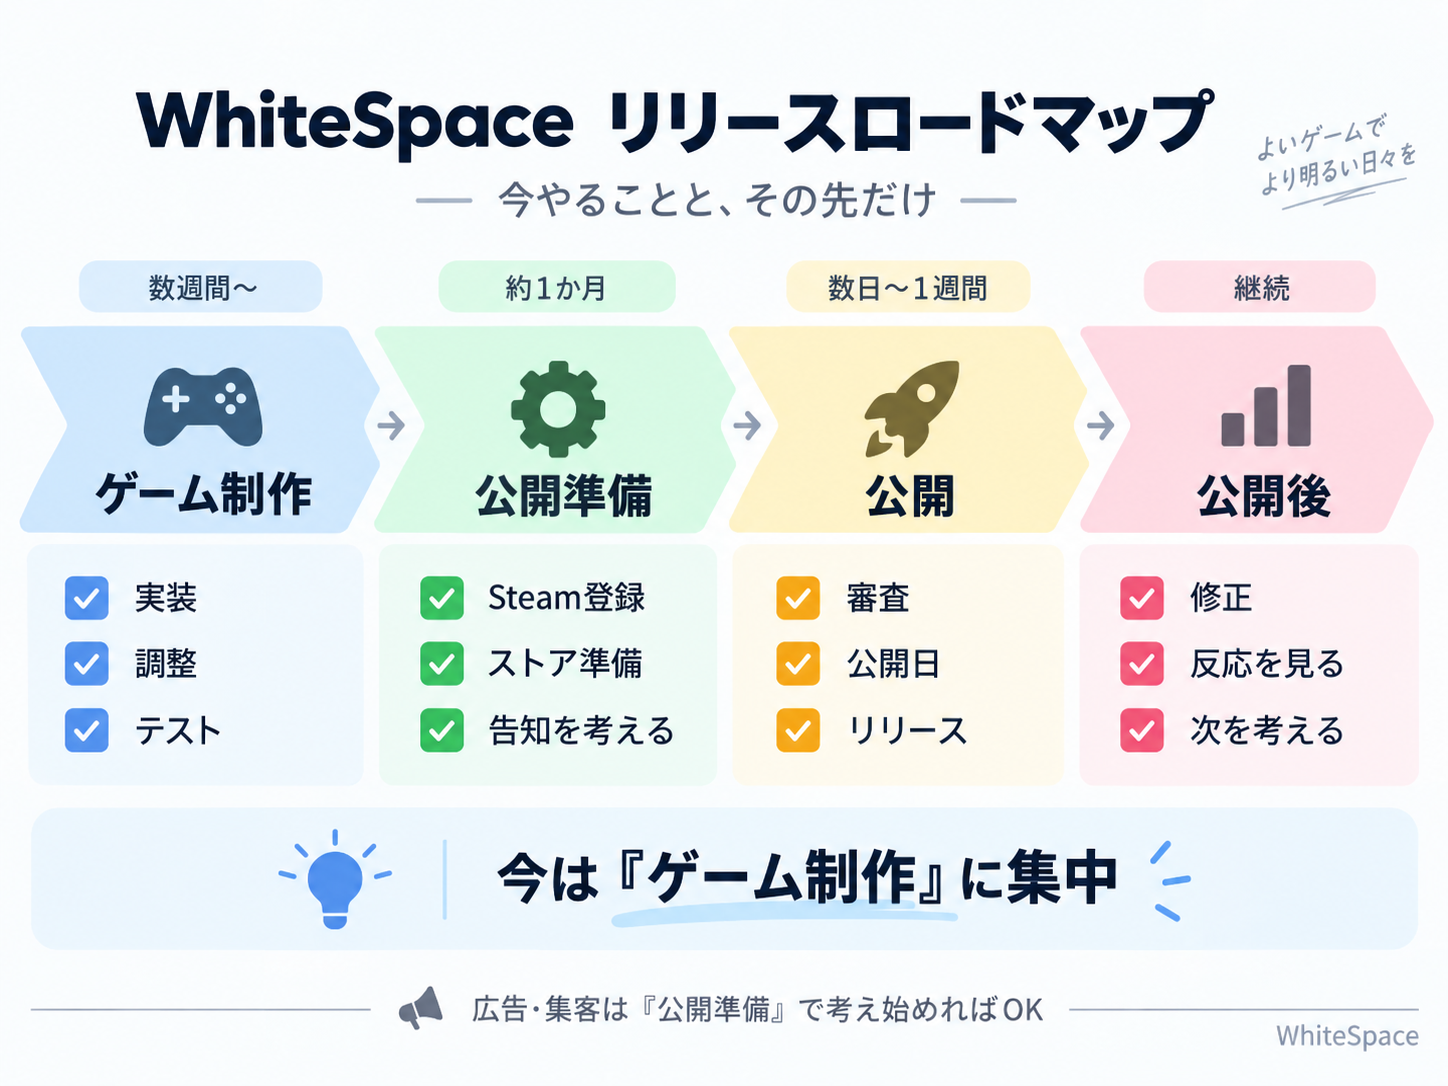
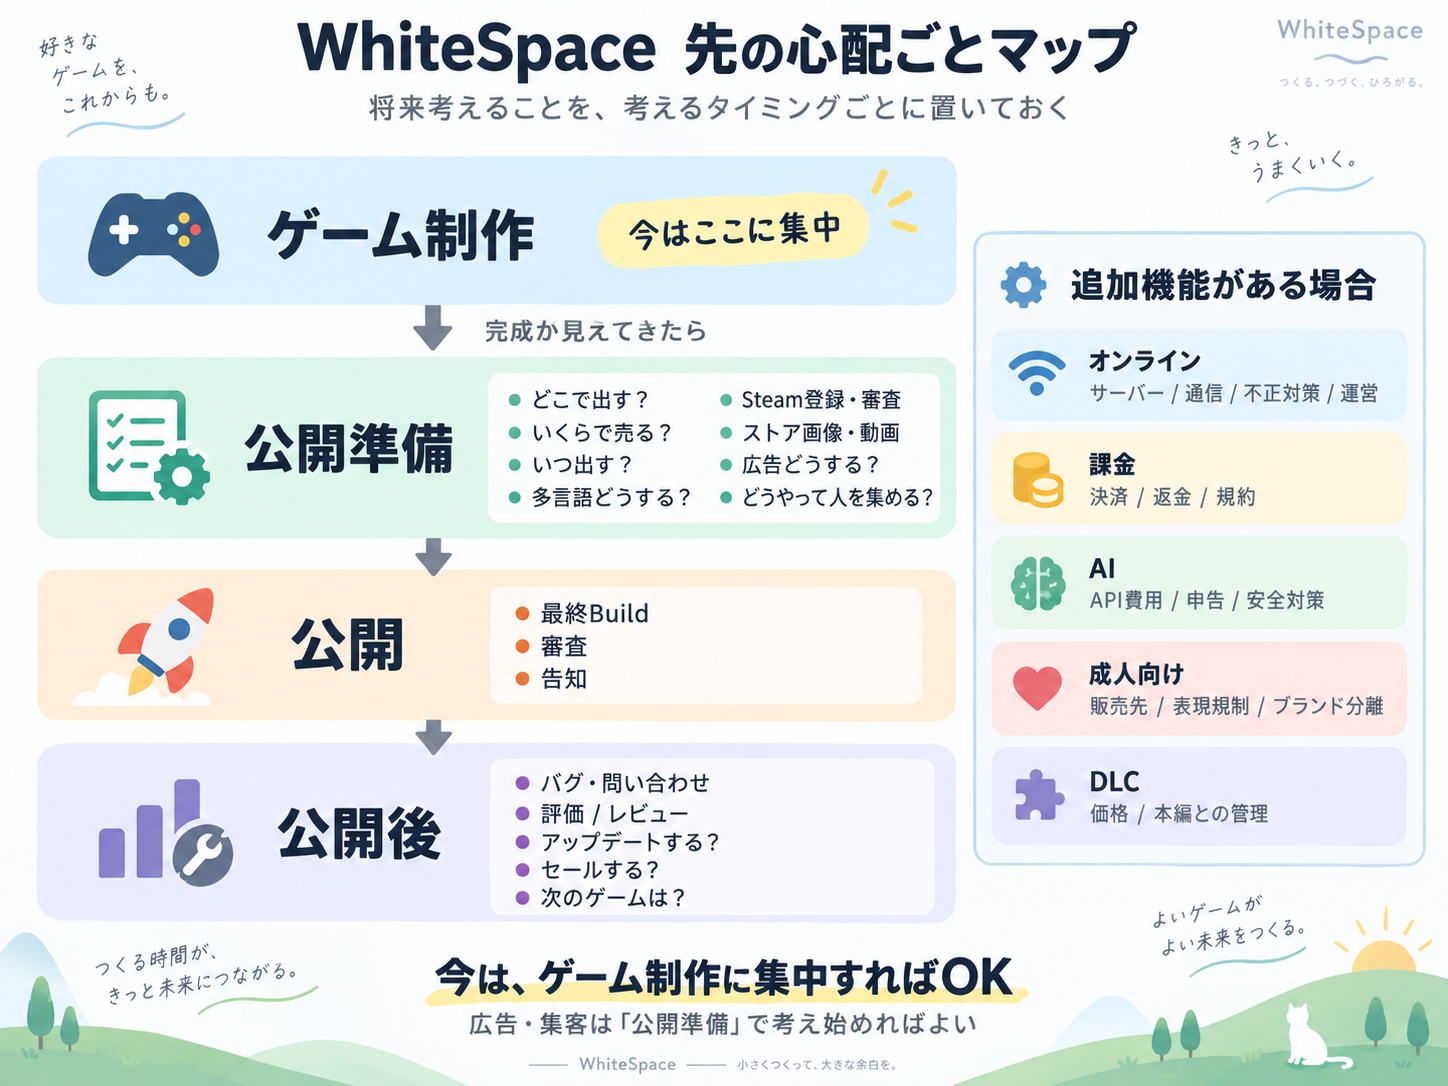
Replace release roadmap with future concerns map

diff --git a/docs/roadmap/release-roadmap.md b/docs/roadmap/release-roadmap.md
@@ -1,43 +1,53 @@
-# WhiteSpace リリースロードマップ
+# WhiteSpace 先の心配ごとマップ
 
-今は「ゲーム制作」に集中。広告・集客は「公開準備」で考え始めればOK。
+将来考えることを、考えるタイミングごとに置いておく。
+今はゲーム制作に集中。広告・集客は「公開準備」で考え始めればOK。
 
-![WhiteSpace リリースロードマップ](release-roadmap.png)
+![WhiteSpace 先の心配ごとマップ](release-roadmap.png)
 
 ## ゲーム制作
 
-実装 → 調整 → テスト
+今はここに集中。
 
-↓
+↓ 完成が見えてきたら
 
 ## 公開準備
 
-- Steam登録
-- ストアページ
-- 価格 / 公開日
-- 多言語
-- 広告 / 集客
-- Coming Soon
+- どこで出す？ Steam / itch.io / DLsite
+- いくらで売る？
+- いつ出す？
+- 多言語どうする？
+- Steam登録・審査
+- ストア画像・動画
+- 広告どうする？
+- どうやって人を集める？
 
 ↓
 
 ## 公開
 
-- 審査
 - 最終Build
-- リリース
+- 審査
+- 告知
 
 ↓
 
 ## 公開後
 
-- 修正
-- レビュー確認
-- アップデート
-- 次回作
+- バグ・問い合わせ
+- 評価 / レビュー
+- アップデートする？
+- セールする？
+- 次のゲームは？
+
+## 追加機能がある場合（画像の補足）
+
+- オンライン: サーバー / 通信 / 不正対策 / 運営
+- 課金: 決済 / 返金 / 規約
+- AI: API費用 / 申告 / 安全対策
+- 成人向け: 販売先 / 表現規制 / ブランド分離
+- DLC: 価格 / 本編との管理
 
 ## 更新のしかた
 
 将来の心配事を見える化するための短いメモ。追加工程や心配事が出たら、この元テキストと `release-roadmap.png` を一緒に更新する。詳しい作業は各プロジェクトで管理し、ここは情報を増やしすぎない。
-
-画像は全体像の要約で、期間は目安。個別作品の確定日程ではない。
